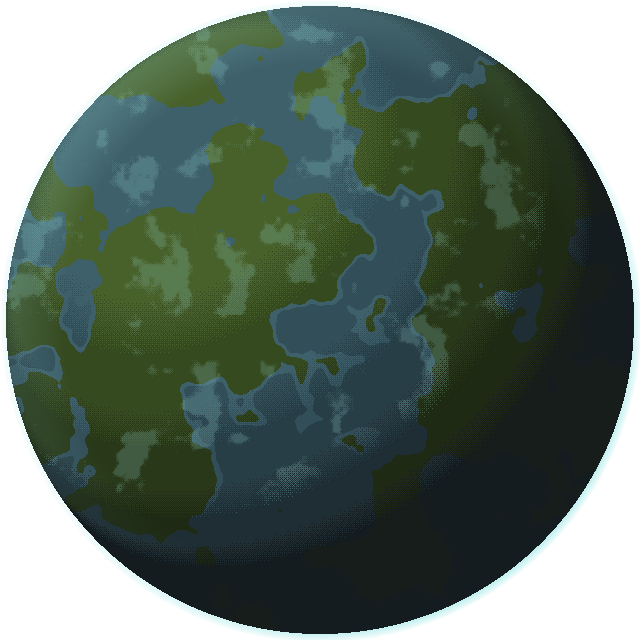
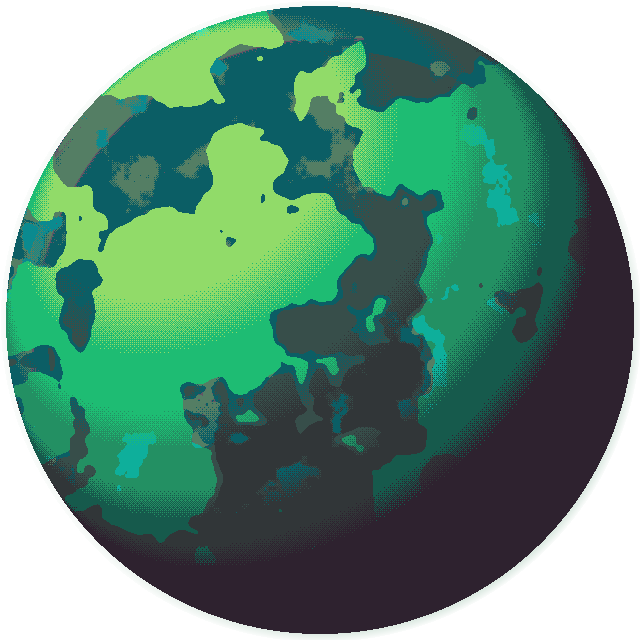
chore: paleta Resurrect 64 e conferência de paleta
Toda cor do jogo sai de docs/paleta.md. O paleta_check acusa PNG fora
dela, e as estrelas e o corpo de Arvo já estão convertidos.

Claude-Session: https://claude.ai/code/session_01Mr8hKDHTntqFgrstS5zBLv

diff --git a/docs/paleta.md b/docs/paleta.md
@@ -1,0 +1,45 @@
+# A paleta do projeto
+
+**IMPORTANT: toda cor do jogo sai desta lista. Nada fora dela.** Vale para arte desenhada, arte gerada por script, interface, luz e cor de fundo. Cor que não está aqui é erro, não estilo.
+
+É a [Resurrect 64](https://lospec.com/palette-list/resurrect-64). A tela inicial do jogo já foi desenhada nela.
+
+## As rampas
+
+O agrupamento abaixo é para leitura; a paleta é a lista inteira. Cada linha é uma rampa, do escuro ao claro, e **uma rampa é o caminho certo para sombrear**: escurecer misturando preto dá cor morta.
+
+| Rampa | Cores |
+|---|---|
+| Neutros quentes | `#2e222f` `#3e3546` `#625565` `#966c6c` `#ab947a` |
+| Neutros frios | `#694f62` `#7f708a` `#9babb2` `#c7dcd0` `#ffffff` |
+| Vermelhos | `#6e2727` `#b33831` `#ea4f36` `#f57d4a` |
+| Vermelho-laranja | `#ae2334` `#e83b3b` `#fb6b1d` `#f79617` `#f9c22b` |
+| Terras | `#7a3045` `#9e4539` `#cd683d` `#e6904e` `#fbb954` |
+| Olivas e amarelos | `#4c3e24` `#676633` `#a2a947` `#d5e04b` `#fbff86` |
+| Verdes | `#165a4c` `#239063` `#1ebc73` `#91db69` `#cddf6c` |
+| Verdes acinzentados | `#313638` `#374e4a` `#547e64` `#92a984` `#b2ba90` |
+| Teais | `#0b5e65` `#0b8a8f` `#0eaf9b` `#30e1b9` `#8ff8e2` |
+| Azuis | `#323353` `#484a77` `#4d65b4` `#4d9be6` `#8fd3ff` |
+| Roxos | `#45293f` `#6b3e75` `#905ea9` `#a884f3` `#eaaded` |
+| Rosas | `#753c54` `#a24b6f` `#cf657f` `#ed8099` |
+| Magentas | `#831c5d` `#c32454` `#f04f78` `#f68181` `#fca790` `#fdcbb0` |
+
+## Como usar
+
+- **Sombrear é andar na rampa**, e mudar de rampa na ponta escura é o que dá sombra colorida em vez de suja.
+- **A identidade de um lugar é a escolha de rampas**, não a saturação. O Outpost de Arvo vive nas terras e nos neutros quentes com céu azul. Cada lugar novo declara as rampas dele num conjunto da skill `pixel-art-sprite`.
+- **Preto é `#2e222f` e branco é `#ffffff`.** Não existe `#000000` no jogo.
+- Cor de interface sai daqui também. O painel, o convite de entrada e a tela de regiões não são exceção.
+
+## Arte de terceiros
+
+Pacote baixado quase nunca vem nesta paleta. Duas saídas honestas, e a escolha é por lugar:
+
+1. **Converter** para a paleta mais próxima, o que uniformiza o jogo e afasta a arte do que o autor desenhou.
+2. **Aceitar como está**, declarando o lugar como protótipo até existir arte própria.
+
+Nunca a terceira: misturar as duas coisas no mesmo quadro sem decidir.
+
+## Conferir
+
+`tools/paleta_check.tscn` percorre os PNG do projeto e diz quanto de cada um está fora da paleta.

diff --git a/tools/CLAUDE.md b/tools/CLAUDE.md
@@ -8,7 +8,8 @@ Ferramenta de dev. Não entra no build e não é jogo.
 | `voo_check.tscn` | mede a gravidade em queda livre, solta a nave sobre o deque e pilota uma descida freada, sem abrir janela |
 | `cenario_check.tscn` | desce um raio sob cada peça de cenário e acusa quem está flutuando ou enterrado |
 | `orbita_check.tscn` | entra e sai de um planeta pelo caminho inteiro: chegada, volta ao mundo, tela de regiões e espaço |
-| `menu_check.tscn` | confere a primeira tela: foco, opções ligadas e o destino de "jogar" |
+| `menu_check.tscn` | confere a primeira tela: foco, opções ligadas, música em laço e o destino de "jogar" |
+| `paleta_check.tscn` | percorre os PNG do jogo e acusa cor fora da paleta do projeto |
 
 ```
 godot --path . --scene res://tools/foto.tscn -- \
@@ -25,13 +26,19 @@ godot --headless --path . --scene res://tools/voo_check.tscn
 
 ```
 godot --headless --path . --scene res://tools/cenario_check.tscn -- \
-    --regiao res://mundo/planetas/arvo/regioes/bosque/bosque_regiao.tscn
+    --regiao res://mundo/planetas/arvo/regioes/outpost/outpost_regiao.tscn
 ```
 
 `orbita_check` guarda a promessa central da entrada: **onde a nave aparece é escolha de quem desenhou o lugar**. Se a chegada parar em outro ponto, ou parar andando, o pouso começa diferente do que o projetista desenhou e nenhum lugar fica calibrável. Ele também confere a volta ao mundo da região, que é a única saída pelos lados, e o convite de entrada no espaço.
 
 ```
 godot --headless --path . --scene res://tools/orbita_check.tscn
+```
+
+`paleta_check` existe porque cor fora da paleta não dá erro em lugar nenhum: não trava, não aparece em revisão de código, e só se manifesta na tela, tarde, quando já existe conteúdo demais para refazer. Ele tem uma lista de perdoados, com motivo declarado por pasta, e **essa lista é a lista de tarefas**: arte de terceiros sai de lá quando for convertida ou substituída.
+
+```
+godot --headless --path . --scene res://tools/paleta_check.tscn
 ```
 
 `menu_check` cobra o defeito mais caro e mais silencioso de um menu: botão que não leva a lugar nenhum, ou destino que deixou de existir depois de alguém mover uma cena. Nada disso aparece em compilação, só em quem abriu o jogo e clicou.
